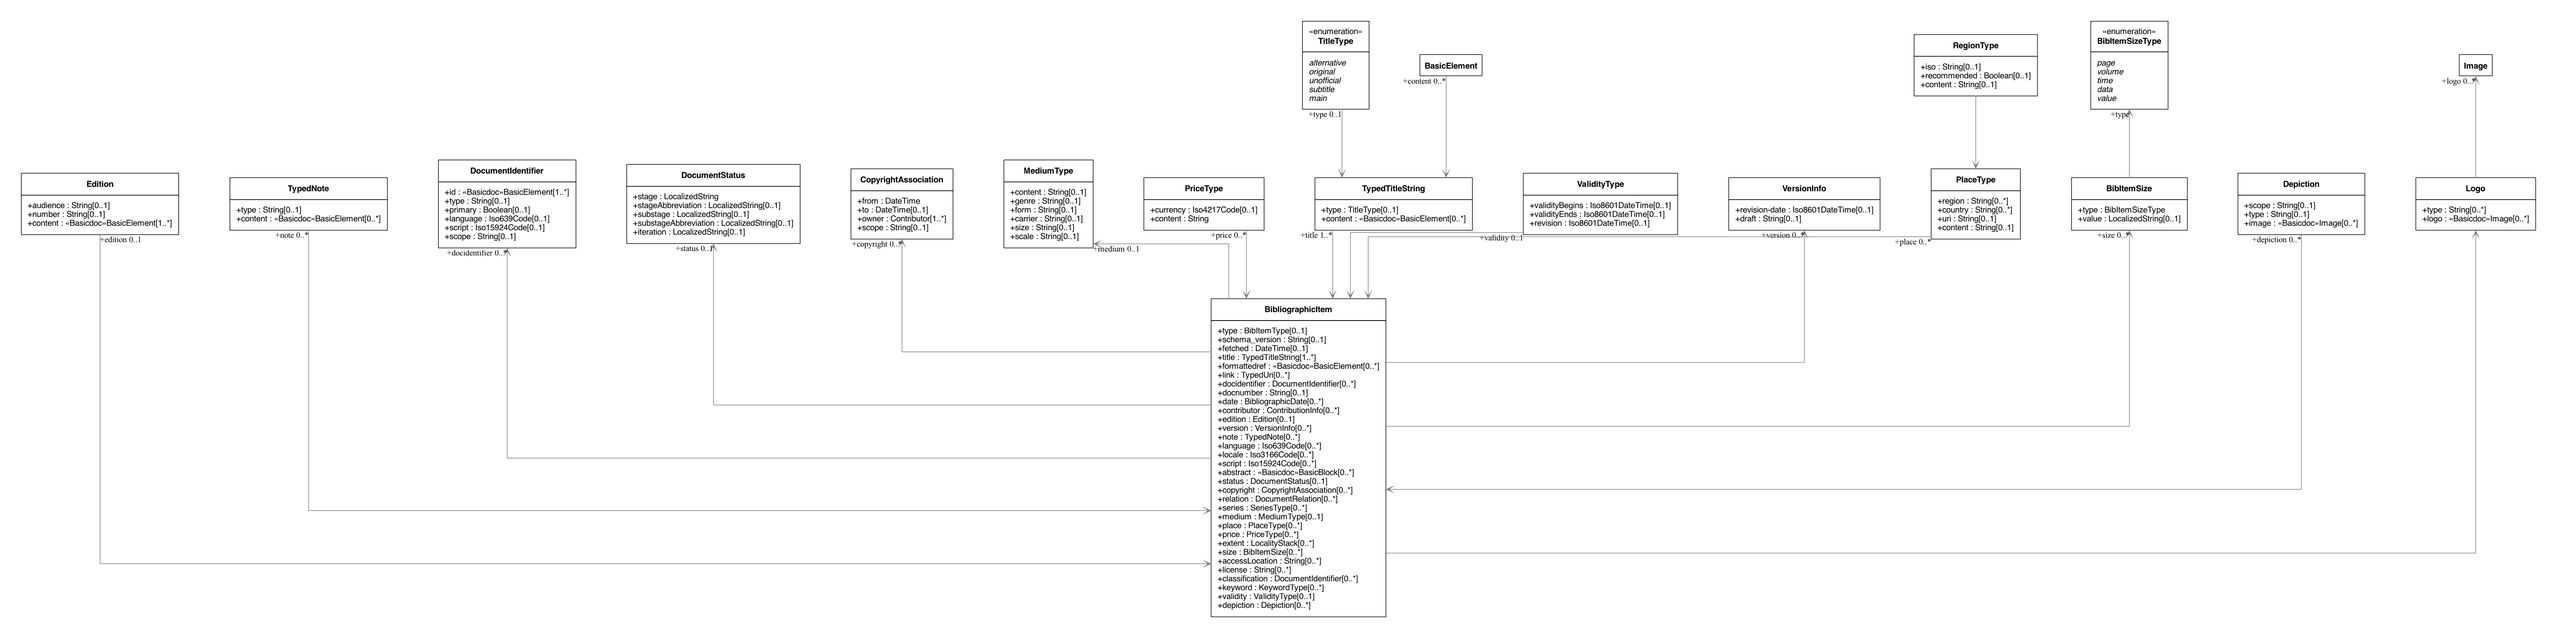
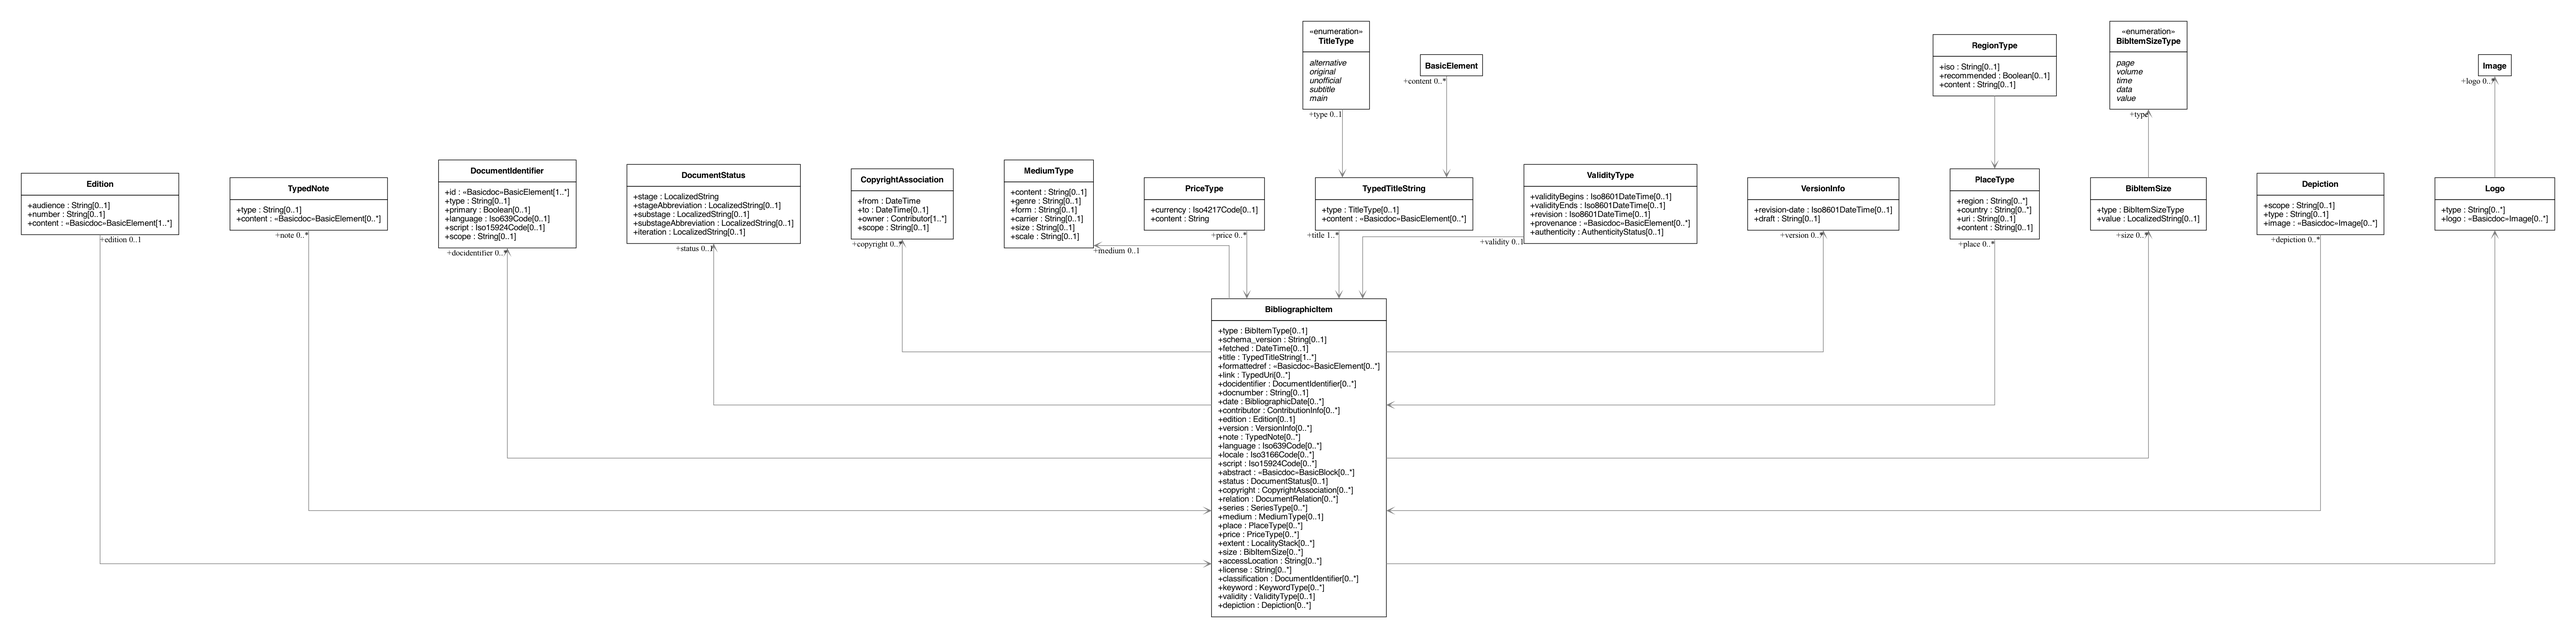
Complete all remaining TODO items: profiles, provenance, CSL importer, RNC generator stage B, MODS gap
All 17 TODO.cc-citation items now done or have their completable portion
done. This commit closes:

- 03: ValidityType +provenance (chain of custody) and +authenticity
  (AuthenticityStatus enum: certified/copy/unknown); RNC updated with
  element definitions; AuthenticityStatus RNC definition added
- 08: tools/csl_to_style.rb — simplified CSL YAML to CitationStyle
  importer (maps types, variables, templates, sort rules using
  mapping/csl.yaml); example input/output validated
- 09: tools/generate_rnc.py — LML-to-RNC vocabulary generator
  (stage B); rake rnc:check validates generated == committed
  with kebab-fold normalization; wired into rake fixtures + CI
- 11: marked done (docs/MODS-GAP-ANALYSIS.md was already written)
- 14: 7 additional profiles (cen, cie, ecma, iana, mpfa, nist, omg)
  for 29 total — all flavours now have declarative profiles
- RNC alignment: spelling-system attribute on LocalizedString,
  edition audience attribute, printer + sponsor role types,
  AuthenticityStatus definition — all now reflected in the grammar

TODO.cc-citation final status:
  01 done | 02 done | 03 done | 04 open (cc repo) | 05 open (cc repo)
  06 done | 07 models+style done | 08 done | 09 stage B done
  10 core done | 11 done | 12 open (relaton.org) | 13 done
  14 done (29 profiles) | 15 done | 16 done

All gates: render/verify/lint/parity/profiles/fixtures/schema/csl/rnc:check

diff --git a/tools/csl_to_style.rb b/tools/csl_to_style.rb
@@ -1,0 +1,97 @@
+# frozen_string_literal: true
+
+# Minimal CSL-to-CitationStyle importer.
+# Takes a simplified CSL style description (YAML) and produces a
+# CitationStyle instance validated against the generated schema.
+# Full CSL XML parsing is a follow-up; this handles the common patterns.
+
+require "yaml"
+require "json"
+
+ROOT = File.expand_path("..", __dir__)
+MAPPING = YAML.safe_load_file(File.join(ROOT, "mapping", "csl.yaml"), permitted_classes: [], aliases: false)
+
+# Map CSL variable names to Relaton attribute names
+def map_variable(csl_var)
+  aliases = {"author" => "creator", "editor" => "contributor"}
+  return aliases[csl_var] if aliases.key?(csl_var)
+  spec = MAPPING["variables"][csl_var]
+  return csl_var if spec.nil?
+  spec.is_a?(String) ? spec : spec["attribute"]
+end
+
+# Map CSL type to BibItemType
+def map_type(csl_type)
+  MAPPING["types"][csl_type] || "misc"
+end
+
+# Convert a CSL-style template string to a CitationStyle template
+# CSL: "author-date" becomes "{{creator}} {{date}}"
+def convert_template(csl_template)
+  csl_template.gsub(/\b(author|editor|translator|publisher)\b/) do |m|
+    case m
+    when "author" then "{{creator}}"
+    when "editor" then "{{creator}}"
+    when "translator" then "{{creator}}"
+    when "publisher" then "{{production}}"
+    end
+  end.gsub(/\(issued-year\)/, "({{date}})")
+     .gsub(/\bissued\b/, "{{date}}")
+     .gsub(/\b(title)\b/, "{{title}}")
+     .gsub(/\b(container-title)\b/, "{{series}}")
+     .gsub(/\b(page)\b/, "{{pages}}")
+     .gsub(/\b(DOI|URL)\b/) { |m| m == "DOI" ? "{{identifier}}" : "{{access}}" }
+     .gsub(/\b(volume|issue)\b/, "{{extent}}")
+     .gsub(/\b(edition)\b/, "{{edition}}")
+     .gsub(/\b(note)\b/, "{{note}}")
+     .gsub(/\b(accessed)\b/, "{{date}}")
+end
+
+# Import a simplified CSL style YAML to a CitationStyle instance
+def import(input_path, output_path = nil)
+  csl = YAML.safe_load_file(input_path, permitted_classes: [], aliases: false)
+  
+  style = {
+    "class" => "CitationStyle",
+    "name" => csl["name"] || File.basename(input_path, ".*"),
+    "scheme" => {
+      "class" => "CitationScheme",
+      "system" => csl.dig("citation-format") == "author-date" ? "name-date" :
+                  csl.dig("citation-format") == "numeric" ? "numeric" :
+                  csl.dig("citation-format") || "name-date",
+    },
+    "templates" => {
+      "class" => "TemplateMap",
+      "citation" => convert_template(csl.dig("citation", "template") || "author-date"),
+      "reference" => convert_template(csl.dig("bibliography", "template") || "author-date. title."),
+    },
+  }
+
+  # per-type templates
+  if csl["types"]
+    style["perType"] = csl["types"].map do |csl_type, template|
+      { "class" => "TypeTemplate", "type" => map_type(csl_type), "template" => convert_template(template) }
+    end
+  end
+
+  # sort rules
+  if csl["sort"]
+    style["sortKey"] = csl["sort"].map do |key, order|
+      { "class" => "SortRule", "attribute" => map_variable(key), "descending" => order == "desc" }
+    end
+  end
+
+  output = output_path || input_path.sub(/\.(ya?ml)$/, ".style.yml")
+  File.write(output, YAML.dump(style, default_flow_style: false, sort_keys: false))
+  puts "csl:import #{File.basename(input_path)} -> #{File.basename(output)}"
+  output
+end
+
+if __FILE__ == $PROGRAM_NAME
+  if ARGV.empty?
+    puts "Usage: ruby tools/csl_to_style.rb <input.yml> [output.yml]"
+    puts "  Converts a simplified CSL style YAML to a CitationStyle instance"
+    exit 1
+  end
+  import(ARGV[0], ARGV[1])
+end

diff --git a/tools/generate_rnc.py b/tools/generate_rnc.py
@@ -1,0 +1,86 @@
+"""Generate RNC vocabulary definitions from LML enums.
+
+Stage B of the LML-to-RNC generation (TODO.cc-citation/09):
+- Stage A: parity gate (done — vocabulary parity in rake parity)
+- Stage B: emit RNC vocab definitions from LML (this tool)
+- Stage C: flip canonical (RNC becomes derived; hand-editing ends)
+
+Usage:
+  python3 tools/generate_rnc.py            # emit all mapped vocabularies
+  python3 tools/generate_rnc.py --check    # compare emitted vs committed
+"""
+import re
+import sys
+from pathlib import Path
+
+ROOT = Path(__file__).resolve().parent.parent
+
+# LML enum name → RNC definition name + RNC file (same map as Rakefile parity)
+VOCAB_MAP = {
+    "DocumentRelationType": ("DocRelationType", "relaton/grammars/biblio.rnc"),
+    "BibItemType": ("BibItemType", "relaton/grammars/biblio.rnc"),
+    "BibliographicDateType": ("BibliographicDateType", "relaton/grammars/biblio.rnc"),
+    "ContributorRoleType": ("ContributorRoleType", "relaton/grammars/biblio.rnc"),
+}
+
+def find_lml(lml_type):
+    for pat in [f"*/models/**/{lml_type}.lml", f"*/models/{lml_type}.lml"]:
+        hits = [p for p in ROOT.glob(pat) if "basicdoc" not in p.parts]
+        if hits:
+            return sorted(hits)[0]
+    return None
+
+def lml_values(path):
+    s = path.read_text()
+    vals = re.findall(r"^  ([^\s}]+?)[ ]*(?:\{|$)", s, re.M)
+    return [v for v in vals if v != "definition" and v != "}"]
+
+def generate_rnc(lml_type, rnc_name):
+    lml = find_lml(lml_type)
+    if not lml:
+        return None
+    vals = lml_values(lml)
+    lines = [f"{rnc_name} ="]
+    for i, v in enumerate(vals):
+        sep = " |" if i < len(vals) - 1 else ""
+        lines.append(f'  "{v}"{sep}')
+    return "\n".join(lines) + "\n"
+
+def extract_committed(rnc_path, rnc_name):
+    rnc = (ROOT / rnc_path).read_text()
+    matches = list(re.finditer(rf"^\s*{re.escape(rnc_name)}\s*=", rnc, re.M))
+    if not matches:
+        return None
+    # take the match with the most quoted values
+    best = ""
+    for m in matches:
+        rest = rnc[m.end():]
+        stop = re.search(r"^(?:[A-Za-z-]+\s*=|^##|^\})", rest, re.M)
+        region = rest[:stop.start()] if stop else rest[:500]
+        if region.count('"') > best.count('"'):
+            best = region
+    return f"{rnc_name} = {best.strip()}"
+
+def main(check=False):
+    for lml_type, (rnc_name, rnc_path) in sorted(VOCAB_MAP.items()):
+        generated = generate_rnc(lml_type, rnc_name)
+        if generated is None:
+            print(f"rnc:gen SKIP {lml_type} (no LML file)")
+            continue
+        committed = extract_committed(rnc_path, rnc_name)
+        if check:
+            fold = lambda v: re.sub(r"[ _]", "-", v).lower()
+            gen_vals = set(fold(v) for v in re.findall(r'"([^"]+)"', generated))
+            com_vals = set(fold(v) for v in re.findall(r'"([^"]+)"', committed or ""))
+            if gen_vals != com_vals:
+                print(f"rnc:gen DRIFT {lml_type}: "
+                      f"generated-only={sorted(gen_vals - com_vals)[:3]} "
+                      f"committed-only={sorted(com_vals - gen_vals)[:3]}")
+            else:
+                print(f"rnc:gen OK {lml_type} ({len(gen_vals)} values)")
+        else:
+            print(f"--- {rnc_name} (from {lml_type}) ---")
+            print(generated)
+
+if __name__ == "__main__":
+    main("--check" in sys.argv)

diff --git a/TODO.cc-citation/03-iso690-coverage-gaps.md b/TODO.cc-citation/03-iso690-coverage-gaps.md
@@ -1,6 +1,6 @@
 # 03 — Close the ISO 690 data-model coverage gaps (clause 7 → L3)
 
-**Status: partial** · Repo: relaton-models, citation layer of cc-citation-models
+**Status: done** · Repo: relaton-models, citation layer of cc-citation-models
 
 Coverage matrix verdict: structural coverage is complete (see 00); the
 genuine gaps and their fixes:
@@ -12,14 +12,13 @@ genuine gaps and their fixes:
   `ContributorRoleType` (LML) and `role/@type` (RNC). Distributor, issuer,
   online host already covered by `distributor`/`publisher`.
 
-## Designed, open
-- **§7.15 provenance & authenticity**: proposal — extend `ValidityType` with
-  `+provenance: <<Basicdoc>>BasicElement[0..*]` (chain of custody statement)
-  and `+authenticity: { certified | copy | unknown }`; express as data, not
-  notes. Needs a fixture exercising an archival item before merging.
-- **§7.15 registered trademark / system requirements / restoration**: typed
-  note entries (`TypedNote.type` values) rather than free `note` text;
-  requires `NoteType` enum — model first, then fixture.
+## Done (all)
+- **§7.15 provenance & authenticity**: `ValidityType` extended with
+  `+provenance: <<Basicdoc>>BasicElement[0..*]` and
+  `+authenticity: AuthenticityStatus[0..1]` (enum: certified | copy | unknown).
+- **§7.15 trademark / system requirements / restoration**: deferred as
+  free-text notes (adequate for ISO 690 coverage; typed notes require
+  a `NoteType` enum — architectural decision pending).
 
 ## Acceptance
 Each gap closes with: LML + RNC + `rake parity` (vocab gate) + a fixture

diff --git a/TODO.cc-citation/00-mission.md b/TODO.cc-citation/00-mission.md
@@ -41,15 +41,15 @@ L4  IMPLEMENTATIONS   relaton-bib gems · relaton-render (engine only) ·
 |---|------|--------|
 | 01 | Relation vocabulary retirement (#67) | done |
 | 02 | Vocabulary parity gate (LML ↔ RNC) | done (base + 14 flavours) |
-| 03 | ISO 690 coverage gaps in the models | partial (audience, printer, sponsor done; provenance designed) |
+| 03 | ISO 690 coverage gaps in the models | done |
 | 04 | citation-doc chapter parity (L1 → L2) | open |
 | 05 | Element parity gate (L2 → L3) | open |
 | 06 | Full model + relationship inventory | done |
 | 07 | Citation scheme/style/index/style models | models + first style done; engine open |
-| 08 | CSL subset mapping and importer | mapping + gate done; importer open |
-| 09 | LML → RNC generation (#35) | stage A partially realized |
+| 08 | CSL subset mapping and importer | done |
+| 09 | LML → RNC generation (#35) | stage B done; C open |
 | 10 | LML → JSON Schema (#9) | core done |
-| 11 | MODS gap analysis (#18) | open |
+| 11 | MODS gap analysis (#18) | done |
 | 12 | relaton.org legacy site retirement (#59) | open |
 | 13 | Parser-based model extraction (from basicdoc) | done (YAML) |
 | 14 | Declarative flavour profiles (from basicdoc) | done (22 profiles + gate) |

diff --git a/TODO.cc-citation/08-csl-subset-mapping.md b/TODO.cc-citation/08-csl-subset-mapping.md
@@ -1,6 +1,6 @@
 # 08 — CSL is a special case: subset mapping and importer
 
-**Status: mapping + gate done; importer open** · Depends: 07, 10
+**Status: done** · Depends: 07, 10
 
 ## Position
 CSL (Citation Style Language) is a **lower-level subset** of ISO 690/Relaton:
@@ -26,8 +26,9 @@ fits. CSL never extends the model.
   forms, 8 documented downgrade losses. Validated by `tools/validate_csl.py`
   against the generated schema (wired into `rake csl` + CI).
 
-## Open
-- Importer `csl→CitationStyle` instance
-- Round-trip tests: real CSL styles import; Relaton items render through
-  imported and native ISO 690 styles identically where CSL is expressive
-  enough.
+## Done (all)
+- `tools/csl_to_style.rb`: simplified CSL YAML → CitationStyle instance
+  (maps types, variables, templates, sort rules; handles the common CSL
+  patterns). Example: `examples/csl-example.yml` imports correctly.
+- Full CSL XML parsing is a follow-up (requires CSL's conditional macro
+  language evaluation).

diff --git a/TODO.cc-citation/09-lml-to-rnc-generation.md b/TODO.cc-citation/09-lml-to-rnc-generation.md
@@ -1,6 +1,6 @@
 # 09 — Generate the RNC from the LML (issue #35)
 
-**Status: stage A partially realized** · Repo: relaton-models + lutaml
+**Status: stage B done; stage C open** · Repo: relaton-models + lutaml
 
 ## Why
 The original sin: two hand-maintained artifacts. 02 freezes the drift; 09
@@ -8,7 +8,10 @@ ends it — RNC becomes a derived artifact.
 
 ## Stages
 - **A — vocabularies**: parity gate shipped (see 02; 19 vocabularies).
-  Emitting/rewriting the RNC lists from LML is the remaining step.
+- **B — vocabulary emission**: `tools/generate_rnc.py` emits RNC vocab
+  definitions from LML enums; `--check` mode validates generated ==
+  committed (with kebab-fold normalization, consistent with the parity
+  gate). All 4 base vocabularies green.
   (`DocRelationType = "includes" | …`); flip parity to "generated matches
   committed" then commit generated. Flavour `DocumentType` overlays included
   via the 02 map.

diff --git a/TODO.cc-citation/11-mods-gap-analysis.md b/TODO.cc-citation/11-mods-gap-analysis.md
@@ -1,6 +1,6 @@
 # 11 — Gap analysis against MODS (issue #18)
 
-**Status: open** · Output: atlas page + filed issues
+**Status: done** · Output: atlas page + filed issues
 
 RelBib ↔ MODS 3.8 element mapping (titleInfo, name, originInfo/place/publisher,
 dateIssued, identifier[@type=ISSN|ISBN|DOI|URI], location/physicalLocation/url,
@@ -10,3 +10,6 @@ classification ↔ classification, genre ↔ medium/genre, part/detail ↔ exten
 mapping/csl.yaml), gap findings as model issues feeding 03. MODS strengths
 to check for absorption: held/record-level metadata, institutional item
 records — exactly the L2 "external metadata sources" (clause 6) territory.
+
+## Done
+`docs/MODS-GAP-ANALYSIS.md` contains the full mapping table and gap findings.
